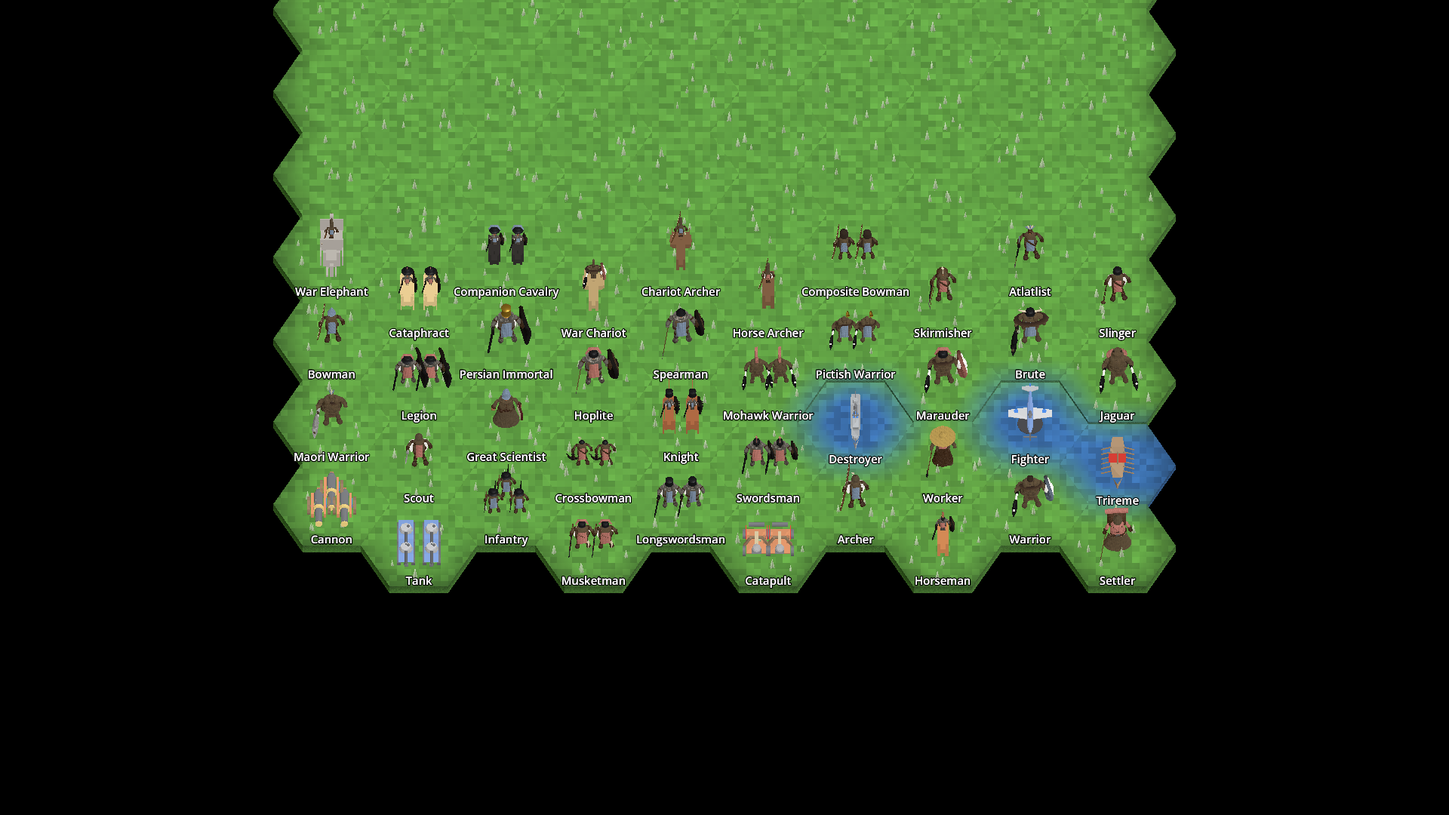
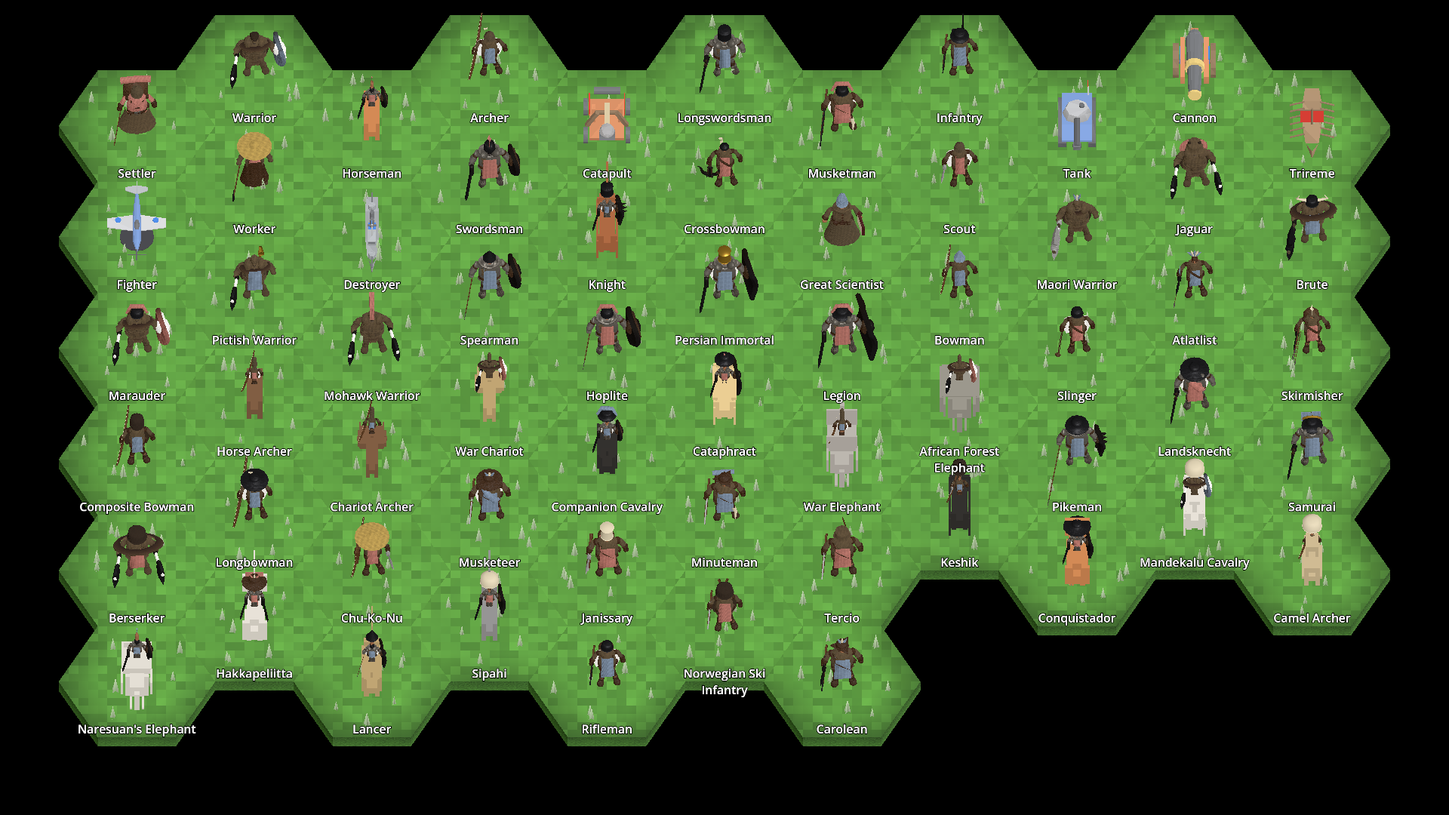
WIP T309

diff --git a/csharp/Unciv.Core.Tests/Assets/UnitSilhouetteTests.cs b/csharp/Unciv.Core.Tests/Assets/UnitSilhouetteTests.cs
@@ -40,6 +40,14 @@ public sealed class UnitSilhouetteTests
     /// <summary>T307: a siege engine fills at least this many pixels of the 40x56 mask (the old Cannon and Catapult were small bars of 300 to 400 pixels; the new ones 550 to 1100).</summary>
     private const int MinSiegeCoverage = 500;
     /// <summary>T307: the civ's colour may cover at most this share of a rigid model's surface (the old Battering Ram was a flat team-coloured roof seen from above).</summary>
+    /// <summary>T309: the factor of <see cref="Masks"/>' resolution for the fine checks (120x168): thin props (a spear tip, an antenna, the Mohawk) survive it.</summary>
+    private const int FineScale = 3;
+    /// <summary>T309: a foot unit against any rider or rigid model (measured minimum 0.348: Battering Ram against the African Forest Elephant; foot against rider 0.378).</summary>
+    private const float MinKindDistance = 0.34f;
+    /// <summary>T309: two rigid units at the fine resolution (measured minimum 0.175, Bomber and Fighter).</summary>
+    private const float MinFineRigidDistance = 0.17f;
+    /// <summary>T309: the outline distance (fine masks) plus the distance of the mean material colours (civ colour left out): the mask is colour-blind, so two rigid units alike in outline must differ in colour.</summary>
+    private const float MinOutlinePlusColour = 0.20f;
     private const float MaxTeamColourShare = 0.35f;
     private static readonly string[] Siege = ["Battering Ram", "Catapult", "Ballista", "Trebuchet", "Hwach'a", "Cannon"];
 
@@ -78,7 +86,19 @@ public sealed class UnitSilhouetteTests
         return (Of(root.GetProperty("units")), Of(root.GetProperty("mounted").GetProperty("units")));
     }
 
-    private static bool[][] Masks(string unit)
+    private static readonly Dictionary<(string, int), bool[][]> MaskCache = [];
+
+    /// <summary>The four masks of a unit, at <paramref name="scale"/> times the 40x56 base resolution (T309: the 3x masks see the thin props, spear tips, antennas and the Mohawk, that 40x56 smears away). Cached: the tests share them.</summary>
+    private static bool[][] Masks(string unit, int scale = 1)
+    {
+        lock (MaskCache)
+        {
+            if (!MaskCache.TryGetValue((unit, scale), out var masks)) MaskCache[(unit, scale)] = masks = BuildMasks(unit, scale);
+            return masks;
+        }
+    }
+
+    private static bool[][] BuildMasks(string unit, int scale)
     {
         var glb = File.ReadAllBytes(Path.Combine(Pack, "models", "unit", unit + ".glb"));
         var jsonLength = BinaryPrimitives.ReadInt32LittleEndian(glb.AsSpan(12));
@@ -90,28 +110,29 @@ public sealed class UnitSilhouetteTests
         for (var side = 0; side < 4; side++)
         {
             var yaw = Matrix4x4.CreateRotationY(side * MathF.PI / 2f);
-            masks[side] = Rasterise(triangles.Select(t => (Project(Vector3.Transform(t.A, yaw)), Project(Vector3.Transform(t.B, yaw)), Project(Vector3.Transform(t.C, yaw)))));
+            masks[side] = Rasterise(triangles.Select(t => (Project(Vector3.Transform(t.A, yaw)), Project(Vector3.Transform(t.B, yaw)), Project(Vector3.Transform(t.C, yaw)))), scale);
         }
         return masks;
     }
 
     private static Vector2 Project(Vector3 p) => new(p.X, p.Y * MathF.Cos(Pitch) - p.Z * MathF.Sin(Pitch));
 
-    private static bool[] Rasterise(IEnumerable<(Vector2 A, Vector2 B, Vector2 C)> tris)
+    private static bool[] Rasterise(IEnumerable<(Vector2 A, Vector2 B, Vector2 C)> tris, int scale)
     {
+        int w = W * scale, h = H * scale;
         // a fixed scale: one world unit is 1/1.15 of the mask's height, so a taller or wider unit really covers more of it; the origin is the middle of the feet
-        var mask = new bool[W * H];
-        float Sx(float x) => W / 2f + x * (H / 1.15f);
-        float Sy(float y) => H * 0.78f - y * (H / 1.15f);
+        var mask = new bool[w * h];
+        float Sx(float x) => w / 2f + x * (h / 1.15f);
+        float Sy(float y) => h * 0.78f - y * (h / 1.15f);
         foreach (var (a, b, c) in tris)
         {
             var pa = new Vector2(Sx(a.X), Sy(a.Y));
             var pb = new Vector2(Sx(b.X), Sy(b.Y));
             var pc = new Vector2(Sx(c.X), Sy(c.Y));
             var x0 = global::System.Math.Max(0, (int)MathF.Floor(MathF.Min(pa.X, MathF.Min(pb.X, pc.X))));
-            var x1 = global::System.Math.Min(W - 1, (int)MathF.Ceiling(MathF.Max(pa.X, MathF.Max(pb.X, pc.X))));
+            var x1 = global::System.Math.Min(w - 1, (int)MathF.Ceiling(MathF.Max(pa.X, MathF.Max(pb.X, pc.X))));
             var y0 = global::System.Math.Max(0, (int)MathF.Floor(MathF.Min(pa.Y, MathF.Min(pb.Y, pc.Y))));
-            var y1 = global::System.Math.Min(H - 1, (int)MathF.Ceiling(MathF.Max(pa.Y, MathF.Max(pb.Y, pc.Y))));
+            var y1 = global::System.Math.Min(h - 1, (int)MathF.Ceiling(MathF.Max(pa.Y, MathF.Max(pb.Y, pc.Y))));
             for (var y = y0; y <= y1; y++)
                 for (var x = x0; x <= x1; x++)
                 {
@@ -120,7 +141,7 @@ public sealed class UnitSilhouetteTests
                     var d2 = Edge(pb, pc, p);
                     var d3 = Edge(pc, pa, p);
                     var inside = !((d1 < 0 || d2 < 0 || d3 < 0) && (d1 > 0 || d2 > 0 || d3 > 0));
-                    if (inside || TouchesPixel(pa, pb, pc, x, y)) mask[y * W + x] = true;
+                    if (inside || TouchesPixel(pa, pb, pc, x, y)) mask[y * w + x] = true;
                 }
         }
         return mask;
@@ -197,7 +218,7 @@ public sealed class UnitSilhouetteTests
     {
         var inter = 0;
         var union = 0;
-        for (var i = 0; i < W * H; i++)
+        for (var i = 0; i < a[side].Length; i++)
         {
             if (a[side][i] && b[side][i]) inter++;
             if (a[side][i] || b[side][i]) union++;
@@ -205,9 +226,9 @@ public sealed class UnitSilhouetteTests
         return union == 0 ? 0f : 1f - (float)inter / union;
     });
 
-    private static List<string> Failures(List<Unit> units, Func<Unit, Unit, float> need)
+    private static List<string> Failures(List<Unit> units, Func<Unit, Unit, float> need, int scale = 1)
     {
-        var masks = units.ToDictionary(u => u.Name, u => Masks(u.Name));
+        var masks = units.ToDictionary(u => u.Name, u => Masks(u.Name, scale));
         var failures = new List<string>();
         foreach (var a in units)
             foreach (var b in units.Where(b => string.CompareOrdinal(b.Name, a.Name) > 0))
@@ -230,7 +251,7 @@ public sealed class UnitSilhouetteTests
     public void EveryFootUnitIsToldApartFromEveryOtherAndCiviliansAreNotSoldiers()
     {
         var (foot, _) = Units();
-        Assert.True(foot.Count >= 55, "the styled foot units");
+        Assert.Equal(57, foot.Count);
         var failures = Failures(foot, (a, b) =>
             IsCivilian(a.Style) != IsCivilian(b.Style) ? MinCivilianDistance : a.Style != b.Style ? MinDistance : MinLookDistance);
         Assert.True(failures.Count == 0, "silhouettes too alike:\n" + string.Join("\n", failures));
@@ -248,7 +269,7 @@ public sealed class UnitSilhouetteTests
     public void ARiderIsRecognisedByHisGearAndHisMountAmongRiders()
     {
         var (_, mounted) = Units();
-        Assert.True(mounted.Count >= 15, "the styled riders");
+        Assert.Equal(21, mounted.Count);
         Assert.True(mounted.Select(u => u.Style + "/" + u.Mount).Distinct().Count() >= 15, "each trapping of a mount is a class of its own");
         var failures = Failures(mounted, (_, _) => MinRiderDistance);
         Assert.True(failures.Count == 0, "rider silhouettes too alike:\n" + string.Join("\n", failures));
@@ -360,6 +381,32 @@ public sealed class UnitSilhouetteTests
         return areas;
     }
 
+    /// <summary>T309: the area-weighted mean base colour of a model's materials without the civ colour (a colour-aware companion of the colour-blind mask).</summary>
+    private static Vector3 MeanColour(string unit)
+    {
+        var glb = File.ReadAllBytes(Path.Combine(Pack, "models", "unit", unit + ".glb"));
+        var jsonLength = BinaryPrimitives.ReadInt32LittleEndian(glb.AsSpan(12));
+        using var doc = JsonDocument.Parse(glb.AsMemory(20, jsonLength));
+        var root = doc.RootElement;
+        var binStart = 20 + jsonLength + 8;
+        var sum = Vector3.Zero;
+        var total = 0f;
+        foreach (var mesh in root.GetProperty("meshes").EnumerateArray())
+            foreach (var prim in mesh.GetProperty("primitives").EnumerateArray())
+            {
+                var material = root.GetProperty("materials")[prim.GetProperty("material").GetInt32()];
+                if (material.GetProperty("name").GetString() == "TeamColor") continue;
+                var factor = material.TryGetProperty("pbrMetallicRoughness", out var pbr) && pbr.TryGetProperty("baseColorFactor", out var f) ? new Vector3(f[0].GetSingle(), f[1].GetSingle(), f[2].GetSingle()) : Vector3.One;
+                var pos = ReadVec3(root.GetProperty("accessors")[prim.GetProperty("attributes").GetProperty("POSITION").GetInt32()], root.GetProperty("bufferViews"), glb, binStart);
+                var idx = ReadIndices(root.GetProperty("accessors")[prim.GetProperty("indices").GetInt32()], root.GetProperty("bufferViews"), glb, binStart);
+                var area = 0f;
+                for (var i = 0; i + 2 < idx.Length; i += 3) area += Vector3.Cross(pos[idx[i + 1]] - pos[idx[i]], pos[idx[i + 2]] - pos[idx[i]]).Length() / 2f;
+                sum += factor * area;
+                total += area;
+            }
+        return total == 0f ? Vector3.Zero : sum / total;
+    }
+
     [Fact]
     public void EveryRigidUnitIsToldApartFromEveryOther()
     {
@@ -408,5 +455,71 @@ public sealed class UnitSilhouetteTests
         Assert.True(Distance(masks, masks) < MinLookDistance);
         Assert.True(Distance(masks, Masks("Archer")) > 0f);
         Assert.True(Distance(Masks("Rifleman"), Masks("Marine")) >= MinLookDistance, "two units of one style are told apart");
+        // the fine and foot-against-rider checks can fail too: a unit is as far from itself as a flat colour from itself, and the thin-prop masks differ from the coarse ones
+        Assert.True(Distance(Masks("Settler", FineScale), Masks("Settler", FineScale)) + Vector3.Distance(MeanColour("Settler"), MeanColour("Settler")) < MinOutlinePlusColour);
+        Assert.True(Distance(Masks("Settler"), Masks("Settler")) < MinKindDistance);
+        Assert.NotEqual(Masks("Mohawk Warrior")[0].Length, Masks("Mohawk Warrior", FineScale)[0].Length);
+    }
+
+    /// <summary>T309: the contents of attachments.json by group (humanoids, riders, rigid models).</summary>
+    private static (JsonElement Foot, JsonElement Mounted, JsonElement Rigid) Groups(JsonDocument data)
+    {
+        var root = data.RootElement;
+        return (root.GetProperty("units"), root.GetProperty("mounted").GetProperty("units"), root.GetProperty("rigid").GetProperty("units"));
+    }
+
+    [Fact]
+    public void EveryHumanoidAndMountedUnitHasAStyleAndEveryModelBelongsToOneUnit()
+    {
+        using var data = JsonDocument.Parse(File.ReadAllText(Path.Combine(Pack, "attachments.json")));
+        var (foot, mounted, rigid) = Groups(data);
+        var unstyled = foot.EnumerateObject().Concat(mounted.EnumerateObject()).Where(it => !it.Value.TryGetProperty("style", out var st) || string.IsNullOrEmpty(st.GetString())).Select(it => it.Name).ToList();
+        Assert.True(unstyled.Count == 0, "humanoid or mounted units without a style (the silhouette tests would skip them): " + string.Join(", ", unstyled));
+        Assert.Equal(57, foot.EnumerateObject().Count());
+        Assert.Equal(21, mounted.EnumerateObject().Count());
+        Assert.Equal(45, rigid.EnumerateObject().Count());
+        var named = foot.EnumerateObject().Concat(mounted.EnumerateObject()).Concat(rigid.EnumerateObject()).Select(it => it.Name).ToList();
+        Assert.Equal(named.Count, named.Distinct().Count());
+        var models = Directory.GetFiles(Path.Combine(Pack, "models", "unit"), "*.glb").Select(f => Path.GetFileNameWithoutExtension(f)).OrderBy(n => n, StringComparer.Ordinal).ToList();
+        Assert.Equal([.. named.OrderBy(n => n, StringComparer.Ordinal)], models);
+    }
+
+    [Fact]
+    public void EveryFootUnitIsToldApartFromEveryRiderAndRigidUnit()
+    {
+        var (foot, mounted) = Units();
+        var failures = new List<string>();
+        foreach (var a in foot)
+            foreach (var b in mounted.Concat(RigidUnits()))
+            {
+                var d = Distance(Masks(a.Name), Masks(b.Name));
+                if (d < MinKindDistance) failures.Add(string.Create(CultureInfo.InvariantCulture, $"{a.Name} (on foot) and {b.Name} differ by {d:0.000}, need {MinKindDistance:0.00}"));
+            }
+        Assert.True(failures.Count == 0, "a foot unit that looks like a rider or a machine:\n" + string.Join("\n", failures));
+    }
+
+    [Fact]
+    public void ThinPropsStillTellUnitsApartAtThreeTimesTheResolution()
+    {
+        var (foot, mounted) = Units();
+        var failures = Failures(foot, (a, b) => IsCivilian(a.Style) != IsCivilian(b.Style) ? MinCivilianDistance : a.Style != b.Style ? MinDistance : MinLookDistance, FineScale);
+        failures.AddRange(Failures(mounted, (_, _) => MinRiderDistance, FineScale));
+        failures.AddRange(Failures(RigidUnits(), (_, _) => MinFineRigidDistance, FineScale));
+        Assert.True(failures.Count == 0, "silhouettes too alike at 120x168:\n" + string.Join("\n", failures));
+    }
+
+    [Fact]
+    public void RigidUnitsAreToldApartByOutlineAndColourTogether()
+    {
+        var rigid = RigidUnits();
+        var failures = new List<string>();
+        foreach (var a in rigid)
+            foreach (var b in rigid.Where(b => string.CompareOrdinal(b.Name, a.Name) > 0))
+            {
+                var outline = Distance(Masks(a.Name, FineScale), Masks(b.Name, FineScale));
+                var colour = Vector3.Distance(MeanColour(a.Name), MeanColour(b.Name));
+                if (outline + colour < MinOutlinePlusColour) failures.Add(string.Create(CultureInfo.InvariantCulture, $"{a.Name} and {b.Name}: outline {outline:0.000} plus colour {colour:0.000}, need {MinOutlinePlusColour:0.00}"));
+            }
+        Assert.True(failures.Count == 0, string.Join("\n", failures));
     }
 }

diff --git a/csharp/Unciv.Godot.Harness/UnitSheetScenario.cs b/csharp/Unciv.Godot.Harness/UnitSheetScenario.cs
@@ -13,15 +13,17 @@ using RulesetClass = Unciv.Models.Ruleset.Ruleset;
 namespace Unciv.GodotHarness;
 
 /// <summary>
-/// T295: the recognisability sheet. Every unit of the gallery side by side on plain grass, through the real <see cref="UnitNode"/>, at the game's DEFAULT zoom (<see cref="MapView.DefaultZoom"/>), in pages of
-/// <see cref="PerPage"/> units, each with its name under it; the owner's top priority is that every unit is easily recognised at the zoom the game is played at (a Settler must never be taken for an Archer).
-/// Not part of CI and never compared to goldens (a real GPU draws it): <c>tools/unit-sheet.sh</c> runs it on the host and writes <c>unit-sheet-N.png</c>. Environment: <c>UNCIV_SHEET_OUT</c> (folder, required),
-/// <c>UNCIV_SHEET_RES</c> (WxH, default 1920x1080), <c>UNCIV_SHEET_ZOOM</c> (default the game's), <c>UNCIV_SHEET_YAW</c> (degrees the units face, default 0).
+/// T295/T309: the recognisability sheet. Every unit of the gallery side by side on plain grass, through the real <see cref="UnitNode"/>, in pages of at most <see cref="MaxColumns"/> x <see cref="MaxRows"/> units
+/// (the units split evenly over the pages, the camera fits each page, the grid has exactly the tiles of one page), each with its name under it. The owner's top priority is that every unit is easily recognised
+/// (a Settler must never be taken for an Archer). One figure per unit by default (the far-zoom lone figure: a pair or trio of figures is how the game draws a strong unit, not what tells units apart), the
+/// formations on request. Not part of CI and never compared to goldens (a real GPU draws it): <c>tools/unit-sheet.sh</c> runs it on the host and writes <c>unit-sheet-N.png</c>. Environment: <c>UNCIV_SHEET_OUT</c>
+/// (folder, required), <c>UNCIV_SHEET_RES</c> (WxH, default 1920x1080), <c>UNCIV_SHEET_ZOOM</c> (camera size in world units, default fitted to the page; <see cref="MapView.DefaultZoom"/> is the game's),
+/// <c>UNCIV_SHEET_YAW</c> (degrees the units face, default 0), <c>UNCIV_SHEET_FORMATIONS</c> (1: draw the formations of the game).
 /// </summary>
 public sealed class UnitSheetScenario : Scenario
 {
-    private const int Columns = 10;
-    private const int PerPage = 40;
+    private const int MaxColumns = 12;
+    private const int MaxRows = 6;
 
     public override string Name => "unit-sheet";
 
@@ -37,7 +39,6 @@ public sealed class UnitSheetScenario : Scenario
     {
         string outDir = GpuBenchScenario.Bench("UNCIV_SHEET_OUT") ?? throw new InvalidOperationException("UNCIV_SHEET_OUT is not set");
         Directory.CreateDirectory(outDir);
-        float zoom = float.TryParse(GpuBenchScenario.Bench("UNCIV_SHEET_ZOOM"), NumberStyles.Float, CultureInfo.InvariantCulture, out float z) ? z : MapView.DefaultZoom;
         float yaw = float.TryParse(GpuBenchScenario.Bench("UNCIV_SHEET_YAW"), NumberStyles.Float, CultureInfo.InvariantCulture, out float yw) ? yw : 0f;
         var ruleset = session.Game.Ruleset;
         var registry = AssetRegistry.ForRuleset(ruleset);
@@ -45,21 +46,31 @@ public sealed class UnitSheetScenario : Scenario
         RulesetClass Of(string unit) => ruleset.Units.ContainsKey(unit) ? ruleset : gods;
         var colours = new[] { PlaceholderPalette.AttackTint, PlaceholderPalette.ReachableTint };
         var units = UnitVisualsScenario.SheetUnits;
-        int pages = (units.Count + PerPage - 1) / PerPage;
+        bool formations = GpuBenchScenario.Bench("UNCIV_SHEET_FORMATIONS") == "1";
+        int pages = (units.Count + MaxColumns * MaxRows - 1) / (MaxColumns * MaxRows);
+        int perPage = (units.Count + pages - 1) / pages;
+        int rowCount = (perPage + MaxColumns - 1) / MaxColumns;
+        int columns = (perPage + rowCount - 1) / rowCount; // as many columns as the rows need: the last row is as full as it can be
 
-        // a straight staggered grid: column c of row r
-        HexCoord Coord(int c, int r) => new(c / 2 + c % 2 + r + 0, -(c / 2) + r);
-        var tiles = units.Select((u, i) => new TileDto { X = Coord(i % Columns, i / Columns).X, Y = Coord(i % Columns, i / Columns).Y, Visible = true, BaseTerrain = u.Terrain ?? "Grassland", Features = [], Resource = null, RiverBottom = false, RiverBottomLeft = false, RiverBottomRight = false }).ToList();
+        // a straight staggered grid: column c of row r; every page uses the same tiles (slot = index within its page), all of them plain grass (a ship on grass is fine for telling shapes apart)
+        // reading order is left to right, top to bottom on the screen (the engine's x grows to the left and y towards the camera)
+        HexCoord Coord(int slot)
+        {
+            int c = columns - 1 - slot % columns, r = rowCount - 1 - slot / columns;
+            return new(c / 2 + c % 2 + r, -(c / 2) + r);
+        }
+        var tiles = Enumerable.Range(0, perPage).Select(s => new TileDto { X = Coord(s).X, Y = Coord(s).Y, Visible = true, BaseTerrain = "Grassland", Features = [], Resource = null, RiverBottom = false, RiverBottomLeft = false, RiverBottomRight = false }).ToList();
         var view = new MapView();
         host.AddChild(view);
         view.Load(registry, tiles);
 
         var steps = new List<ScenarioStep> { new WaitFrames(3) };
-        var pageNodes = new List<Node3D>();
+        var pageNodes = new List<(Node3D Node, int Page)>();
         for (int i = 0; i < units.Count; i++)
         {
             var (name, _) = units[i];
-            var c = Coord(i % Columns, i / Columns);
+            int page = i / perPage;
+            var c = Coord(i % perPage);
             var dto = new UnitDto { Id = i + 1, Name = name, Owner = i % 2 == 0 ? "Rome" : "Egypt", X = c.X, Y = c.Y, HealthBucket = 4, IsEmbarked = false, IsFortified = false, Own = null };
             var node = new UnitNode { Name = "Unit_" + dto.Id, Unit = dto };
             var top = MapLayout.TileTop(c.X, c.Y, view.TileNodeAt(c)?.Elevation ?? 1f);
@@ -67,22 +78,30 @@ public sealed class UnitSheetScenario : Scenario
             var col = colours[i % 2];
             node.Build(registry, Of(name), Of(name).Units[name], (col.R / 255f, col.G / 255f, col.B / 255f));
             node.Face(yaw * MathF.PI / 180f);
+            if (!formations) node.ApplyLod(true);
             view.AddChild(node);
-            pageNodes.Add(node);
-            var label = new Label3D { Text = name, PixelSize = 0.006f, Billboard = BaseMaterial3D.BillboardModeEnum.Enabled, NoDepthTest = true, Modulate = Colors.White, OutlineSize = 12, Position = top + new Vector3(0f, 0.02f, 0.75f) };
+            pageNodes.Add((node, page));
+            var label = new Label3D
+            {
+                Text = name, FontSize = 36, PixelSize = 0.0042f, Width = 380f, AutowrapMode = TextServer.AutowrapMode.WordSmart, VerticalAlignment = VerticalAlignment.Top, Billboard = BaseMaterial3D.BillboardModeEnum.Enabled,
+                NoDepthTest = true, Modulate = Colors.White, OutlineSize = 10, Position = top + new Vector3(0f, 0.02f, 0.62f),
+            };
             view.AddChild(label);
-            pageNodes.Add(label);
+            pageNodes.Add((label, page));
         }
+        var tops = Enumerable.Range(0, perPage).Select(s => MapLayout.TileTop(Coord(s).X, Coord(s).Y, 0f)).ToList();
+        var (min, max) = (new Vector3(tops.Min(t => t.X), 0f, tops.Min(t => t.Z)), new Vector3(tops.Max(t => t.X), 0f, tops.Max(t => t.Z)));
+        var size = Viewport;
+        // the camera's vertical size shows the ground foreshortened by the tilt; the margins hold the figures above the first row and the labels under the last
+        float fit = MathF.Max((max.Z - min.Z) * MathF.Sin(MapView.TiltDegrees * MathF.PI / 180f) + 2.6f, (max.X - min.X + 1.8f) * size.Y / size.X);
+        if (!float.TryParse(GpuBenchScenario.Bench("UNCIV_SHEET_ZOOM"), NumberStyles.Float, CultureInfo.InvariantCulture, out float zoom)) zoom = fit;
         for (int p = 0; p < pages; p++)
         {
             int page = p;
-            int first = page * PerPage, last = Math.Min(units.Count, first + PerPage) - 1;
             steps.Add(new Act($"frame page {page + 1}", () =>
             {
-                for (int k = 0; k < pageNodes.Count; k++) pageNodes[k].Visible = k / 2 >= first && k / 2 <= last;
-                var a = MapLayout.TileTop(Coord(0, first / Columns).X, Coord(0, first / Columns).Y, 0f);
-                var b = MapLayout.TileTop(Coord(Columns - 1, last / Columns).X, Coord(Columns - 1, last / Columns).Y, 0f);
-                view.FocusOn((a + b) / 2f);
+                foreach (var (node, nodePage) in pageNodes) node.Visible = nodePage == page;
+                view.FocusOn(new Vector3((min.X + max.X) / 2f, 0f, (min.Z + max.Z) / 2f + 0.35f));
                 view.SetZoom(zoom);
             }));
             steps.Add(new WaitFrames(4));

diff --git a/csharp/migration/design/UNIT-STYLE.md b/csharp/migration/design/UNIT-STYLE.md
@@ -164,13 +164,11 @@ Recognisability: each class has its own silhouette (held item, headgear, size an
 
 T310 (units of one class told apart; no shrunken figures): every unit has a `"look"` in `attachments.json` selecting an entry of `LOOKS[style][look]` in `build-unit-style.py` (hat, back load, gun or weapon parameters, proportion set). Riders also get a `mount.variant` (horse trappings joined with `+`: plain, caparison, barded, cataphract, plumed, pennant, saddlecloth, cantle, camel); the elephants have a tower, blanket or rails and their own colour. The figure scale now comes from the plain body, before any gear, and gear is shortened or tilted to fit the contract caps (bind radius 0.62, height 0.98); the result `fit = scale / scale-with-gear` is written to `asset.extras.bodyFit` and `NoGearShrinksAFootFigure` requires at least 0.96 for every foot unit (it was 0.62 to 0.94, which shrank the modern infantry). T315 (polish): the contract caps are 1.35 high and 1.1 sideways (were 1.0 and 0.65; in the bind pose a held spear lies forward at full length, it stands up in the idle clip), so spears are 1.85 long (hoplite 1.6), the pike 2.55 (1.4 times the spearman's reach, asserted) and the lancer's lance 2.4. Crew guns are no longer held: each stands on its own tripod (machine gun), wheeled carriage (Gatling, anti-tank), pedestal (anti-aircraft) or truck (SAM) in front of the gunner, one rigid part on the root joint. Rider hats are drawn 2.1 times (was 1.55) the foot size, the Mohawk crest is 0.55 tall and 0.14 thick, the radio antenna is 3 times thicker. Because a horse fills most of a rider's outline (riders differ by 0.15 to 0.3 in the mask metric), every horse unit now has its own coat (`mount.colour` in attachments.json: black, bay, chestnut, rust, dun, palomino, grey, white and the Khan's red roan) and `RidersWithAlikeOutlinesHaveMountsOfDifferentCoats` demands a coat distance of 0.2 for any two riders whose outlines differ by less than 0.30. Known limits: the siege engines (Cannon, Catapult, Ballista, Trebuchet, Hwacha) are rigid boxes outside this pipeline (T307); the mask test still measures the bind pose at 40x56 pixels, not the real zoom (T309).
 
-Contact sheet at the default zoom on the real GPU (RTX 5060 Ti, `Unciv.Godot.Harness/tools/unit-sheet.sh <out-dir>`): `images/units/unit-sheet/unit-sheet-1.png` to `-4.png` (documentation, not goldens).
+Contact sheet on the real GPU (RTX 5060 Ti, `Unciv.Godot.Harness/tools/unit-sheet.sh <out-dir> [zoom]`; T309: one figure per unit, two pages fitted to the screen, grass only, camera size fitted to the page: pass 14 for the game's default zoom): `images/units/unit-sheet/unit-sheet-1.png` and `-2.png` (documentation, not goldens).
 
 ![page 1](images/units/unit-sheet/unit-sheet-1.png)
 ![page 2](images/units/unit-sheet/unit-sheet-2.png)
-![page 3](images/units/unit-sheet/unit-sheet-3.png)
-![page 4](images/units/unit-sheet/unit-sheet-4.png)
 
 T307 (the rigid models): the 45 rigid units (ships, siege, armour, aircraft, missiles, helicopter; the Battering Ram moved into `build-rigid-models.py` as the archetype `ram`) were restyled in `Unciv.Godot/tools/build-rigid-models.py`. Gritty look: every non-team surface carries vertex colours (a patchy brightness per triangle, soot and mud darkening of the lowest parts, a little extra light on up-facing faces; 4 bytes per vertex, no textures, the models stay 20 to 50 KB so the pack does not grow), the `TeamColor` surfaces stay clean. Siege engines are big (0.9 long) and each has its own colour and top-down outline: the ram is a hide-and-thatch gabled shed on wheels with the iron-capped log sticking out and the civ colour only as side shields and a ridge stripe (it was a flat team-coloured roof), the catapult a red-brown frame with a long arm and a stone boulder, the ballista a green carriage with a wide dark bow, the trebuchet a stone-weighted lever on splayed legs, the hwach'a a teal rocket box with a yellow band and a long push pole, the cannon a long black barrel on a red-brown carriage with big wheels. Tank (blue, short, round turret), Panzer (grey, long, flat turret, engine deck, muzzle brake), Modern Armor (sand, wide skirts) and Landship (rhomboid with sponsons) differ in length, width and turret; the frigate, privateer, sea beggar, caravel and galleass differ in hull colour, beam, sail span and oars; the aircraft differ in wing outline (swept, straight, elliptical) and colour. Rule enforced by `UnitSilhouetteTests`: every pair of the 45 rigid units at least 0.18 apart in the mask metric (measured minimum 0.188), the civ colour at most 0.35 of a model's surface, every siege engine at least 500 mask pixels (the old Cannon and Catapult were 300 to 400) and a main colour of its own. The contract build limits of the generator are height 1.1 and radius 0.85 (the contract itself allows 1.35 and 1.1). Real-GPU sheet re-rendered; the unit-visuals goldens air, far, formations, gallery, ram, rigid, ships and siege-armour were re-recorded.
 
-Not done: humanoid and mounted figures are still small at the default zoom, and the mask test still measures the bind pose at 40x56 pixels, not the real zoom (T309); the sheet draws siege and armour as formations of two or three figures.
+T309 (sheet and test hardening): the sheet draws one figure per unit (the far-zoom lone figure; `UNCIV_SHEET_FORMATIONS=1` draws the formations), two pages of 62 and 61 units fitted to the screen on plain grass, with wrapped labels; `unit-sheet.sh` fails fast when no dotnet is found. `UnitSilhouetteTests` now also checks: every humanoid and mounted entry of attachments.json has a style and every model file belongs to exactly one entry (57 + 21 + 45 = 123); every foot unit against every rider and every rigid unit at least 0.34 (measured minimum 0.348); all the foot, rider and rigid rules again at three times the mask resolution (120x168, thin props visible; rigid pairs at least 0.17, measured 0.175); and for rigid units the fine outline distance plus the distance of the mean material colour (civ colour left out) at least 0.20. Honest judgement of the sheet at the game's zoom (14): the classes are recognisable (settler against archer is clear: round hood and cloak against a thin bow), but within a class many units differ mostly by a thin prop or a hat: Warrior, Marauder, Brute, Jaguar and Pictish Warrior; Spearman, Hoplite, Legion, Persian Immortal, Swordsman and Knight; Galley, Dromon, Quinquereme and Galleass; the great people and the missionary and inquisitor. Those are tracked in the tickets named in T309's Notes.
